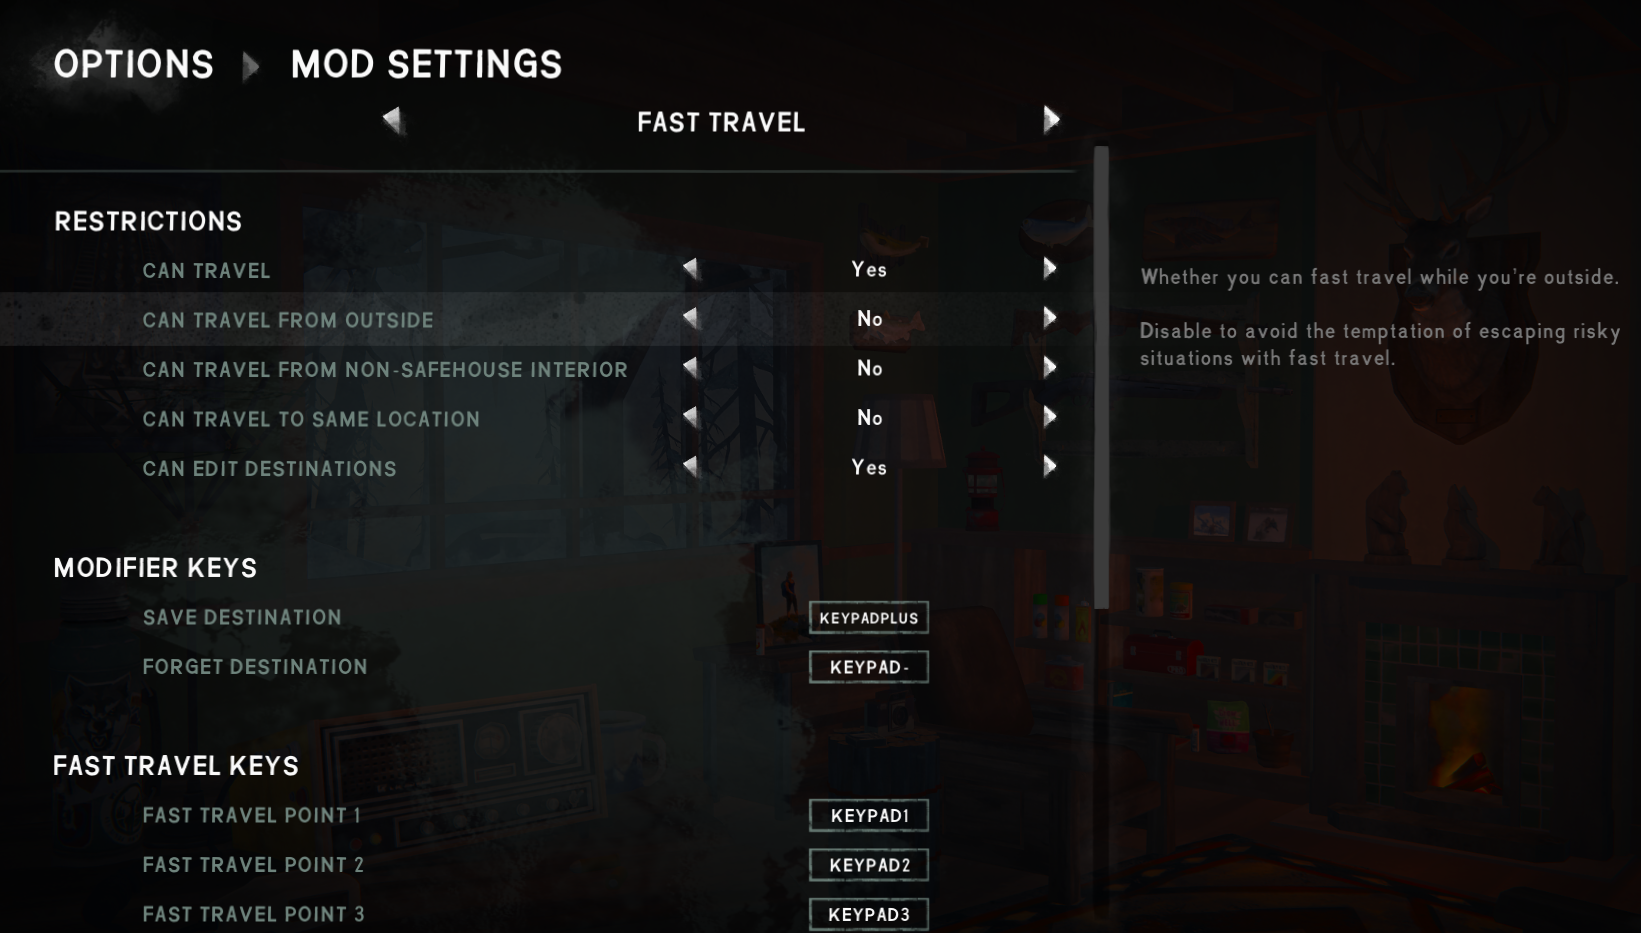
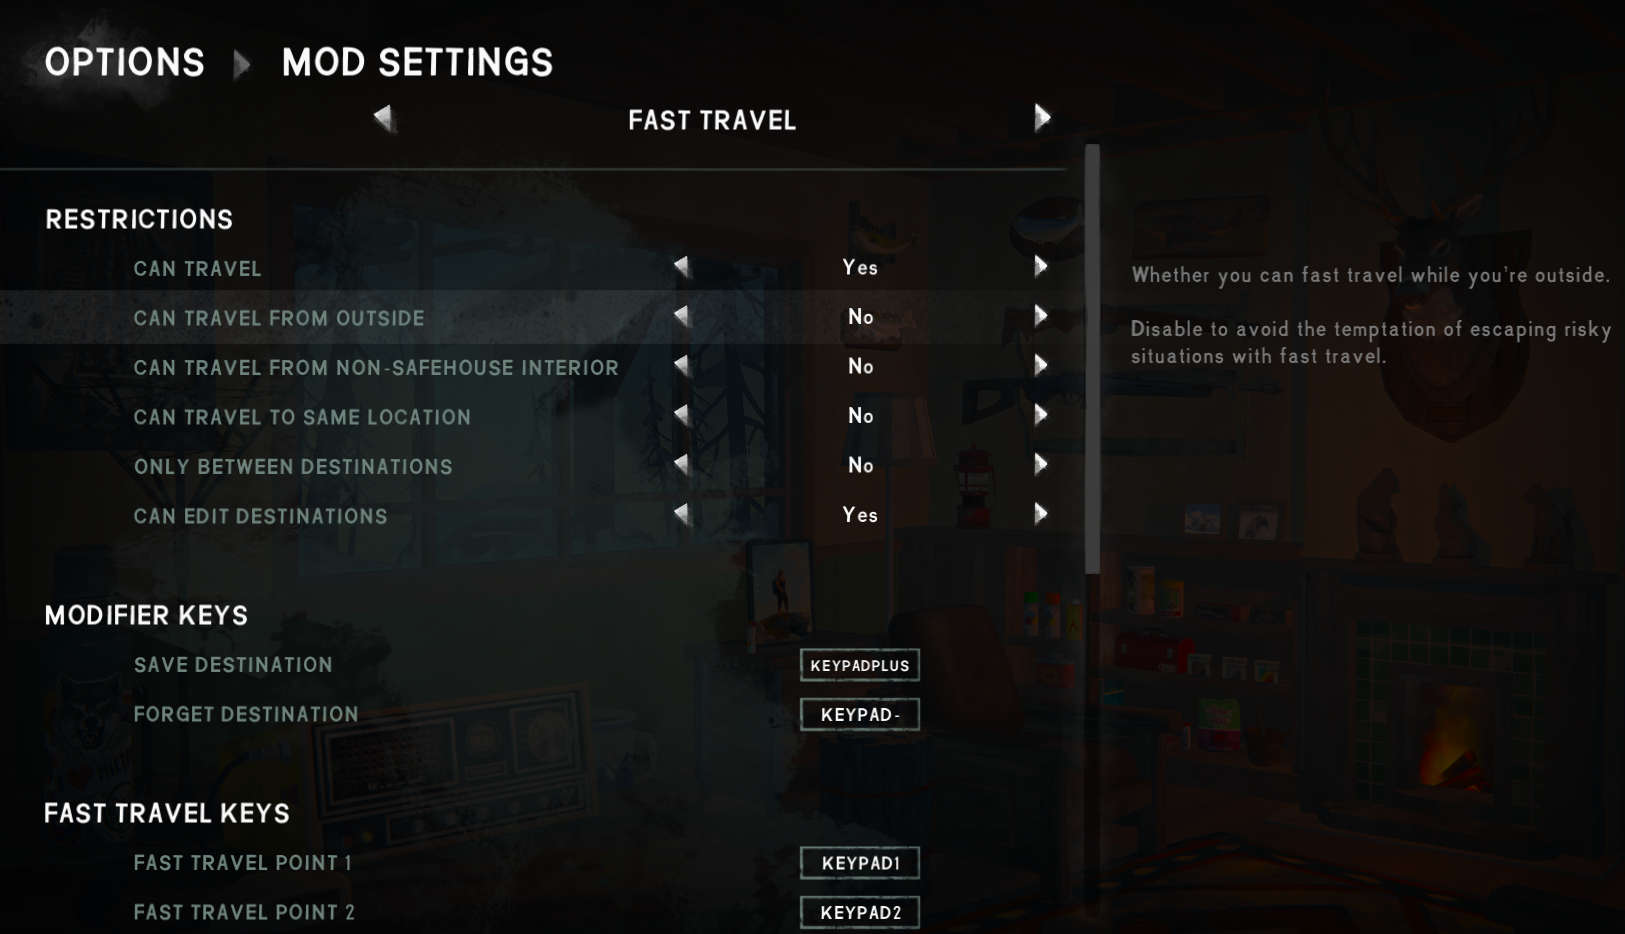
add option to only allow fast travel between saved destinations

diff --git a/src/FastTravel/ModEntry.cs b/src/FastTravel/ModEntry.cs
@@ -208,7 +208,7 @@ public class ModEntry : MelonMod
         Destination? returnPoint = data.ReturnPoint;
 
         // check restrictions
-        if (this.HasFastTravelRestrictions(here, destination, out string? reasonPhrase))
+        if (this.HasFastTravelRestrictions(here, destination, data, out string? reasonPhrase))
         {
             this.Log.Warning($"Can't fast travel {reasonPhrase} (per your mod settings).");
             return;
@@ -254,7 +254,7 @@ public class ModEntry : MelonMod
         Destination? returnPoint = data.ReturnPoint;
 
         // check restrictions
-        if (this.HasFastTravelRestrictions(here, returnPoint, out string? reasonPhrase))
+        if (this.HasFastTravelRestrictions(here, returnPoint, data, out string? reasonPhrase))
         {
             this.Log.Warning($"Can't fast travel {reasonPhrase} (per your mod settings).");
             return;
@@ -366,15 +366,42 @@ public class ModEntry : MelonMod
     /// <summary>Get whether the player's mod settings prohibit a fast travel.</summary>
     /// <param name="from">The scene from which the player would travel.</param>
     /// <param name="to">The scene in which the player would arrive.</param>
+    /// <param name="data">The saved fast travel destinations.</param>
     /// <param name="restrictionPhrase">If restrictions are in place, a phrase which can fit in the sentence <c>Can't fast travel {0}</c>.</param>
     /// <returns>Returns whether restrictions prohibit this fast travel.</returns>
-    private bool HasFastTravelRestrictions(Destination from, Destination? to, [NotNullWhen(true)] out string? restrictionPhrase)
+    private bool HasFastTravelRestrictions(Destination from, Destination? to, SaveModel data, [NotNullWhen(true)] out string? restrictionPhrase)
     {
         // disabled
         if (!this.Config.CanTravel)
         {
             restrictionPhrase = "at all";
             return true;
+        }
+
+        // only between fast travel points
+        if (this.Config.OnlyBetweenDestinations && to != null)
+        {
+            bool foundFrom = false;
+            bool foundTo = false;
+
+            foreach (var destination in data.Destinations)
+            {
+                string sceneName = destination.Value.Scene.Name;
+
+                if (sceneName == from.Scene.Name)
+                    foundFrom = true;
+                if (sceneName == to.Scene.Name)
+                    foundTo = true;
+
+                if (foundFrom && foundTo)
+                    break;
+            }
+
+            if (!foundFrom || !foundTo)
+            {
+                restrictionPhrase = "because you can only travel between saved fast travel points";
+                return true;
+            }
         }
 
         // travel from

diff --git a/src/FastTravel/Framework/ModConfig.cs b/src/FastTravel/Framework/ModConfig.cs
@@ -9,6 +9,9 @@ internal class ModConfig : JsonModSettings
     /*********
     ** Accessors
     *********/
+    /****
+    ** Restrictions
+    ****/
     [Section("Restrictions")]
     [Name("Can travel")]
     [Description("Whether fast traveling is enabled at all.\n\nDisable if you only want to fast travel in specific cases (e.g. when transferring from one base to another).")]
@@ -26,10 +29,17 @@ internal class ModConfig : JsonModSettings
     [Description("Whether you can fast travel from one point to another in the same location.\n\nThis is often unintended.")]
     public bool CanTravelToSameScene = false;
 
+    [Name("Only between destinations")]
+    [Description("Whether you can only fast travel between locations you've saved as a fast travel destination (e.g. between your main home bases).")]
+    public bool OnlyBetweenDestinations = false;
+
     [Name("Can edit destinations")]
     [Description("Whether you can edit your fast travel destinations.\n\nDisabling it after you've set up your options can avoid accidental changes.")]
     public bool CanEditDestinations = true;
 
+    /****
+    ** Modifier keys
+    ****/
     [Section("Modifier keys")]
     [Name("Save destination")]
     [Description("Save your current place as a fast travel destination by holding this key, then pressing the destination key below you want to bind it to.")]
@@ -39,6 +49,9 @@ internal class ModConfig : JsonModSettings
     [Description("Forget a destination by holding this key, then pressing the destination key below you want to delete.")]
     public KeyCode DeleteModifierKey = KeyCode.KeypadMinus;
 
+    /****
+    ** Fast travel keys
+    ****/
     [Section("Fast travel keys")]
     [Name("Fast travel point 1")]
     [Description("Press this button to fast travel to your first saved destination. You can change this point using the 'modifier keys' above.")]
@@ -80,6 +93,9 @@ internal class ModConfig : JsonModSettings
     [Description("Press this button to return to where you were before your *most recent* fast travel.")]
     public KeyCode ReturnPointKey = KeyCode.Keypad0;
 
+    /****
+    ** Other
+    ****/
     [Section("Other")]
     [Name("Show usage hints")]
     [Description("Whether in-game messages should include usage hints like \"You can return here later by pressing <key>\".\n\nDisable if you're familiar with the mod and want less immersion-breaking messages.")]

diff --git a/src/FastTravel/docs/README.md b/src/FastTravel/docs/README.md
@@ -22,6 +22,7 @@ transferring your hoard to each region.
 1. Install [MelonLoader], [ModData][TLDMods], and [ModSettings][TLDMods].
 2. Download this mod's DLL directly into your game's `Mods` subfolder.
 3. Launch the game.
+4. _(Optional)_ Edit the [mod settings](#configure) to choose when you can fast travel.
 
 ## Use
 You can save up to 9 places as a fast travel point. Each one is bound to a specific key (by default
